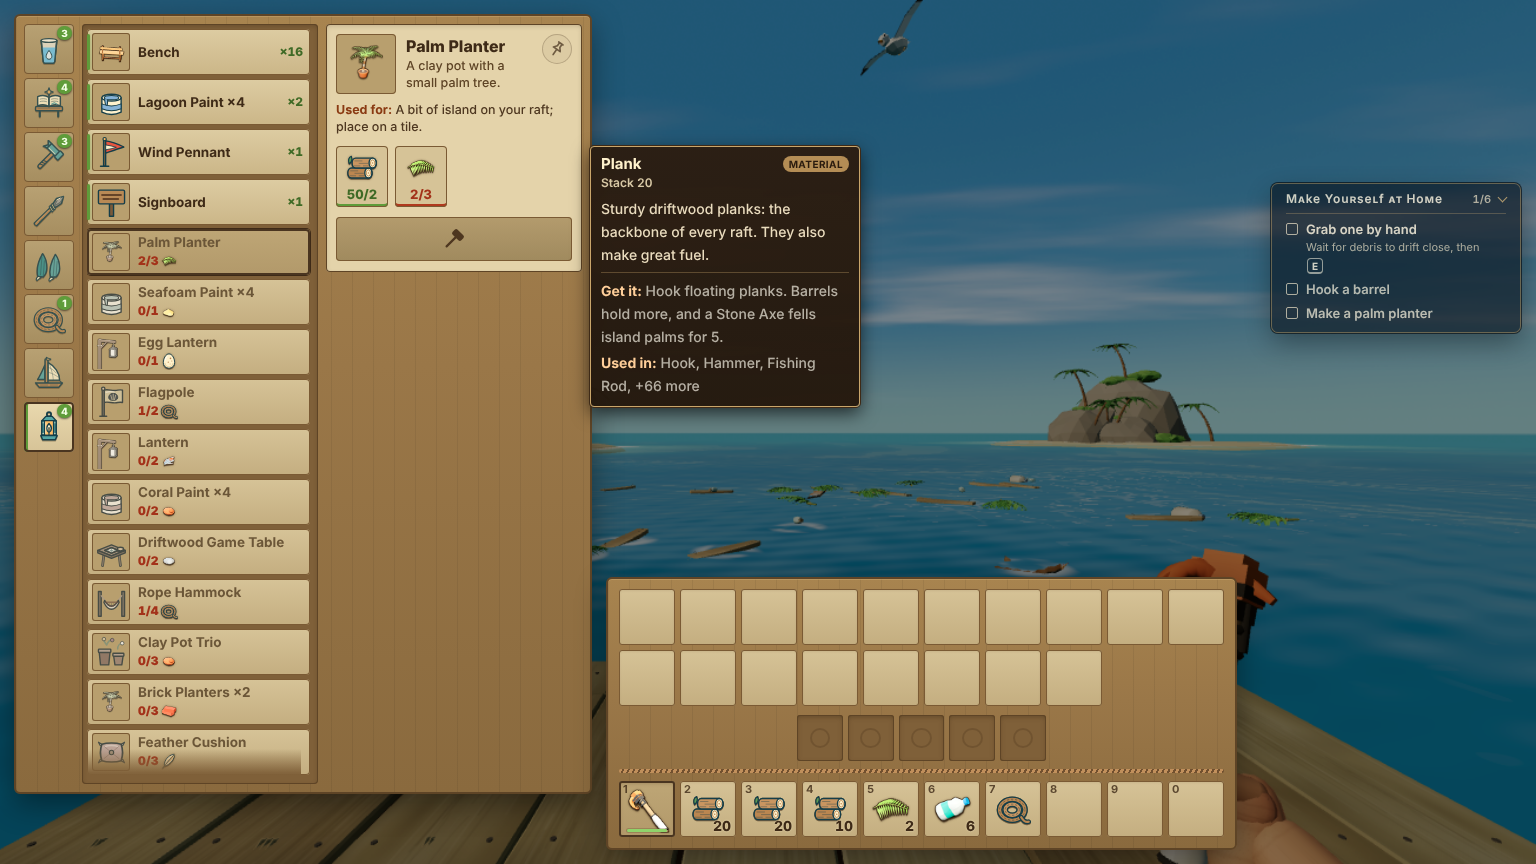
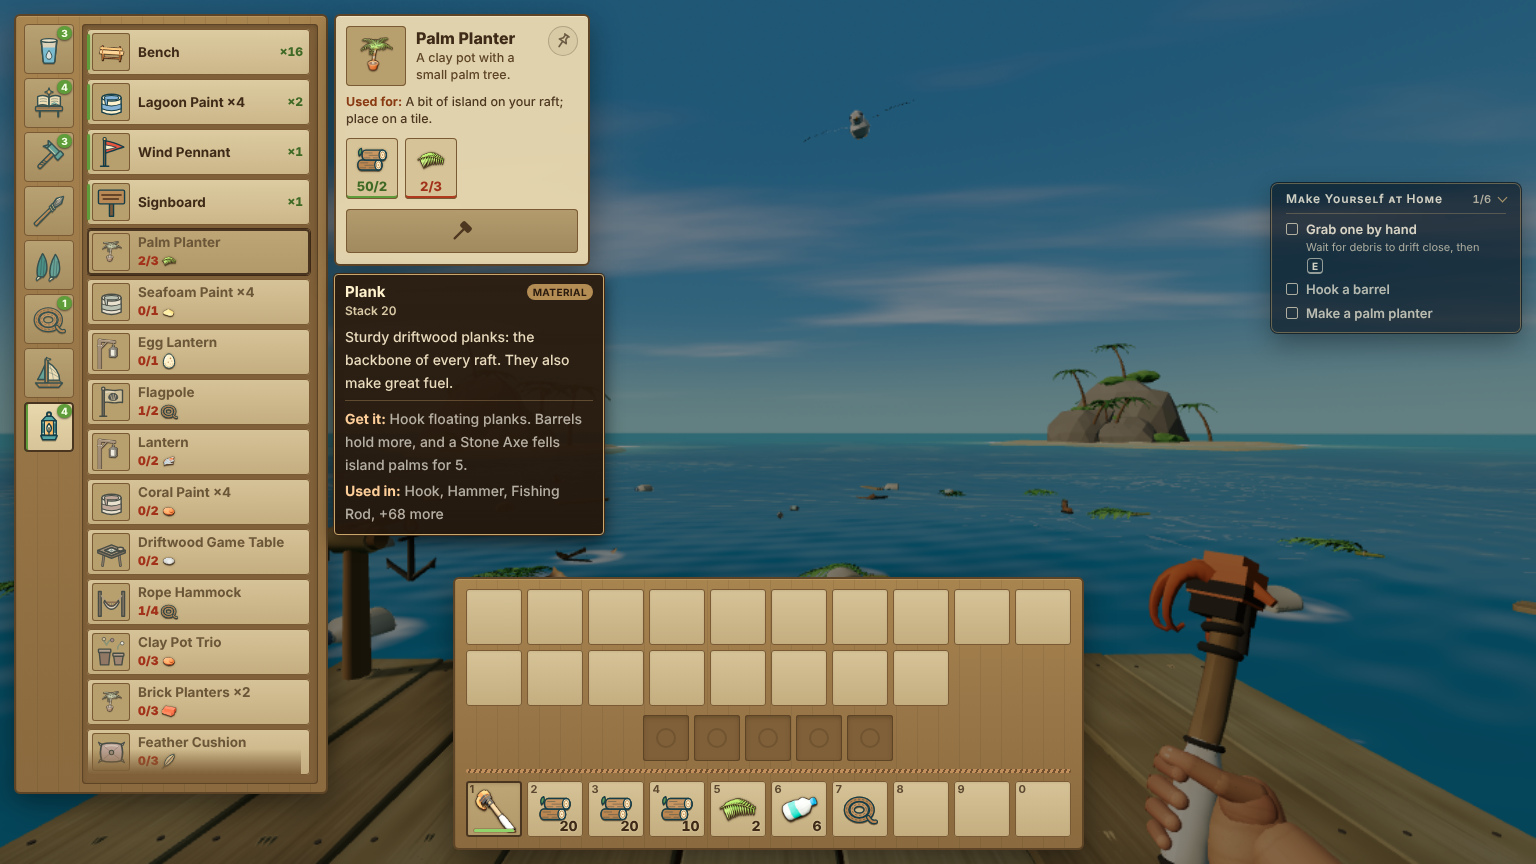
Crafting UI notes for review round 3; new chip-hover, equipment and short-tab screenshots

diff --git a/docs/loop/crafting-v2/UI-NOTES.md b/docs/loop/crafting-v2/UI-NOTES.md
@@ -45,23 +45,79 @@ The test matrix ran:
 
 ## Layout (Raft arrangement)
 
-- **Crafting** is anchored on the left edge and runs full height (up to 780px). It has three columns:
+- **Crafting** is anchored on the top-left edge and is as tall as its content (up to 780px, then the list scrolls), so a short tab leaves no empty block. It has:
   - a column of 8 icon tabs, in Raft's order: food and water, other, tools, weapons, equipment, resources, navigation, decorations. The tabs come from `CRAFT_TABS` and `craftTabOf` in items.js. Each name is the tab's `title` and its aria label.
-  - the recipe list.
-  - the detail pane: icon, name, description, pin, ingredient tiles showing have/need (red when short) with the + sub-craft, and the Craft button. Clicking a recipe selects it, and the pane stays open; hovering does not open it. The pane's height follows its ingredients.
-- **Backpack**: the panel sits on the bottom edge, centred on the screen when there is room, and otherwise right beside the crafting column. The detail pane has its own grid column, so it never covers the bag (checked at 1229x691, 1536x864 and 1920x1080). The panel holds, from top to bottom:
+  - the recipe list, as tall as its rows. On a short tab the panel is as tall as the tab column and the list box hugs its rows.
+  - the open recipe as its own card beside the list (`.sv-detail`, absolutely placed at the panel's right edge): icon, name, description, pin, ingredient tiles showing have/need (red when short) with the + sub-craft, and the Craft button. Clicking a recipe selects it, and the card stays open; hovering does not open it. The card's height follows its ingredients, and its `max-height` (`--dh`) ends it above the backpack, so it never covers the bag. There is no empty column under it.
+- **Backpack**: the panel sits on the bottom edge, centred on the screen unless that would put it over the tabs and list panel, then right beside that panel. Its slot size no longer grows to fill the width, so it centres at 1536x864 and 1920x1080; at 1229x691 the centred spot (x 299) would overlap the panel (right edge 298 plus the gap), so it sits beside it at x 308. The panel holds, from top to bottom:
   - the 18-slot grid
-  - Raft's **5 generic equipment slots**
+  - Raft's **5 equipment slots**
   - the hotbar row, which is the bottom-centre hotbar of the bag screen
-- **Equipment slots**: they show the diving gear you carry (`GEAR_IDS`; gear works while it is in the bag, one of each kind). They fill from the left and are read-only: the bag has no separate equipment storage.
-- **Right side**: kept clear of panels. The pickup feed docks out of flow beside the bag, or above it on windows narrower than 1500px, so feed rows never resize anything.
-- **Less text**: the "Crafting" and "Backpack" headings, the "Requires" label and the controls hint are visually hidden, but screen readers still get them. A refusal ("Can't place that there") shows briefly above the bag.
-- **Tooltips**: crafting tooltips anchor beside the whole crafting panel, so they never cover the recipe list or the open recipe.
-- **Sizing**: everything comes from the dialog size through container units, so layout is CSS only, with no per-frame reads or writes.
+- **Right side**: kept clear of panels. The pickup feed docks out of flow to the right of the bag (its width fits the space left there), or above the bag's right end on windows narrower than 1150px, so feed rows never resize anything.
+- **Less text**: the "Crafting" and "Backpack" headings, the "Requires" label and the controls hint are visually hidden, but screen readers still get them. A refusal ("Can't place that there", "Only gear goes there") shows briefly above the bag.
+- **Tooltips**: crafting tooltips (`craft-book.js craftTip`) stay in the crafting area and never cover the screen centre:
+  1. With a recipe open: right under its card, in the card's column (above the bag).
+  2. With none open: in that column, level with the hovered row.
+  3. No room under the card (1229x691): ingredient tiles put the card over the recipe list, rows put it over the card column. Any spot that would cover the screen's centre point is skipped.
+  Other tooltips (bag slots, equipment) still sit beside their element (`anchorTip`).
+- **Sizing**: everything comes from the dialog size through container units (`--pw` panel width, `--ch` tallest list, `--bh` bag height, `--dh` tallest recipe card), so layout is CSS only, with no per-frame reads or writes. Tooltip rects are read on show only.
   - Slot size: `clamp(36px, ..., 56px)`.
   - Below 1230px wide, a tighter crafting column.
-  - Below 1000px wide or 520px tall, one scrolling column.
-- **Unchanged behaviour**: + sub-craft, pin, hold-to-craft, drag and drop, click and right-click moves, keyboard (roving tabs, arrow keys over slots and recipes), research gating, the co-op guest bag and no text selection. A browser probe confirmed these: 8 tabs with labels, click-select persists after the pointer leaves, hold-to-craft, arrow keys over tabs, the held stack under the pointer at zoom 1.2, a move, `user-select:none`, equipment showing fins and goggles, and no page errors.
+  - Below 1000px wide or 520px tall, one scrolling column (the recipe card goes back into the flow under the list).
+- **Unchanged behaviour**: + sub-craft, pin, hold-to-craft, drag and drop, click and right-click moves, keyboard (roving tabs, arrow keys over slots and recipes), research gating, the co-op guest bag and no text selection.
+
+## Equipment slots
+
+The review found that the equipment slots were read-only mirrors: gear showed twice (grid and equipment row) and dragging into a slot did nothing.
+
+**Choice: the equipment row is a view over the bag, not new storage.** The Bag snapshot must be exactly 28 slots (`inventory-state.js` throws otherwise), co-op sends that snapshot and moves as `moveSlot` actions, and the save stores it. A real equipment store would change the save shape, the co-op protocol (an older peer would reject the snapshot) and diving-gear's "works while carried" rule, in files other agents are editing. So:
+
+- **What is worn**: the first 5 gear stacks (`GEAR_IDS`) in the backpack grid (bag index 10 and up), packed from the left (`craft-book.js equipView`). They show in the equipment row and not in the grid, so every item shows exactly once. Gear on the hotbar stays on the hotbar.
+- **The grid slot** that holds worn gear is drawn as a darker, empty "taken" slot (`data-worn`). It shows no icon and no tooltip (item-tooltips skips `data-worn`).
+- **Wear**: drag or click-place gear onto an equipment slot (`equipTarget`):
+  - From the hotbar, it moves to the first free backpack slot, so it shows in the row.
+  - Onto a worn slot, it swaps with that gear.
+  - Anything that is not gear is refused ("Only gear goes there").
+  - With a full backpack, the move is refused ("Backpack full").
+- **Unequip**: drag an equipment slot to the hotbar (a normal move or swap).
+- **Dropping on a "taken" slot** (`gridTarget`): the worn gear first moves to the first free backpack slot, then the stack lands where it was dropped. These are two ordinary `onMove` calls, so the guest bag predicts both and the host applies both in order. With no free slot it is a plain swap.
+- **Gear still counts as carried**: diving-gear-core's `gearMask(count)` reads `bag.count(kind)`, and the items never leave the bag, so swim, oxygen and fog bonuses are unchanged.
+- **Compatibility**: old saves (no gear, or gear anywhere) load unchanged, because the row is computed from the slots. No new save fields and no protocol change.
+- **The equipment slots are real `.sv-slot` buttons** (`data-equip`, plus `data-slot` = the bag index while filled). Click-pick, right-click, drag and drop, the held stack, deny shake and the item-tooltips card (with durability) all work on them.
+
+## Review round 3: overlapping live checks
+
+**Problem.** In dist/live.js, `check()` awaited `fetchManifest()` before `swap()` set `state.updating`. Overlapping checks could therefore both pass the busy test and both mount a new engine: the poll, a `visibilitychange` `schedule(0)` or a manual `raftLive.check()`. The first new engine was never disposed, so its item-tooltips sheet and listeners leaked, and two or three cards could show at once.
+
+**Fix:**
+- live.js keeps one in-flight promise: `check()` returns the running check to any overlapping caller, so at most one check and one swap run at a time.
+- `boot()` sets `state.booting`, and a check during boot answers `busy`.
+- item-tooltips.js keeps its live instance on `window.__littleRaftItemTooltips`, like survival-ui's `INST_KEY`. Installing a new instance disposes the previous one, so even a missed dispose leaves one sheet and one card. The old engine's late `dispose()` removes only its own sheet.
+
+**Test.** tools/repro_craft_flicker.mjs now starts LIVE_SWAP with two overlapping `raftLive.check()` calls. Each case counts `style.item-tooltips-style` and `.it-tip` elements. Any count above one is reported as `duplicate-tooltips`, which makes the case a FLICKER. tests/crafting-v3.test.mjs covers the guard and the registry with a fake DOM.
+
+**Repro numbers** (VIEWPORTS=1536x864@1,1920x1080@1,1229x691@1, TARGETS=chip,plus,row,chip+feed, plus UI_SCALE=1.2 at 1536x864):
+
+| Run | Before (old live.js and item-tooltips.js) | After |
+|---|---|---|
+| LIVE_SWAP, 1536x864, 4 targets | FLICKER `duplicate-tooltips`: 2 styles and 2 cards each | STABLE: 1 style and 1 card; panel x 14; 0.02 toggles/frame |
+| LIVE_SWAP, 1920x1080, chip, plus and row | FLICKER `duplicate-tooltips`: 2/2 each | STABLE: 1/1; panel x 17; 0.02 |
+| LIVE_SWAP, 1920x1080 chip+feed and 1229x691 (all 4) | not measured: the run hit its 900 s limit | STABLE: 1/1; panel x 17 or 10; 0.02 |
+| No swap, all 3 viewports, 12 cases | not rerun | STABLE: 1/1, 0.02 toggles/frame |
+| UI_SCALE=1.2, with and without swap, 8 cases | not rerun | STABLE: 1/1, panel x 17, 0.02 |
+
+- **Before:** every swap case that finished (7 of 7) left two sheets and two cards.
+- **After:** all 32 cases are STABLE (exit 0), and both overlapping checks return the same `updated` result.
+
+Measured placements after the change (viewport px, from the repro):
+
+| Viewport | Crafting panel | Recipe card | Backpack | Chip card |
+|---|---|---|---|---|
+| 1536x864 | x 14, w 314 | x 334, h 252 | x 453..1084 (centred on 768) | x 334..604, under the recipe card |
+| 1920x1080 (zoom 1.2) | x 17, w 377 | x 401, h 301 | x 581..1338 (centred on 960) | x 401..725 |
+| 1229x691 | x 10, w 288 | x 304, h 235 | x 308 (beside the panel: centred would be x 299) | over the list (x 28..298); row cards under the recipe card (y 255..397, bag top 408) |
+
+The screen centre stays clear in every case.
 
 ## Data hooks
 
@@ -71,8 +127,9 @@ The test matrix ran:
 
 ## Screenshots
 
-- docs/loop/crafting-v2/crafting-1536x864-chip-hover.png
-- docs/loop/crafting-v2/crafting-1920x1080-chip-hover.png (zoom 1.2: the card sits beside the panel, on screen)
-- docs/loop/crafting-v2/crafting-1229x691-chip-hover.png (the detail pane is clear of the bag)
-- docs/loop/crafting-v2/crafting-1920x1080-equipment.png (fins and goggles in the equipment slots)
-- docs/loop/crafting-v2/flicker-before-1536x864-swap.png and flicker-after-1536x864-swap.png (pointer resting on a chip after a live swap)
+- docs/loop/crafting-v2/crafting-1536x864-chip-hover.png (a chip hovered: the card sits under the recipe card, the backpack is centred)
+- docs/loop/crafting-v2/crafting-1920x1080-chip-hover.png (zoom 1.2: the same arrangement, the backpack centred)
+- docs/loop/crafting-v2/crafting-1229x691-chip-hover.png (the backpack beside the panel, the chip card over the recipe list)
+- docs/loop/crafting-v2/crafting-1920x1080-equipment.png (goggles worn in the equipment row, its grid slot shown as taken, fins moved to the hotbar)
+- docs/loop/crafting-v2/crafting-1920x1080-short-tab.png (a short tab: the panel and list are as tall as their content)
+- docs/loop/crafting-v2/flicker-before-1536x864-swap.png and flicker-after-1536x864-swap.png (pointer resting on a chip after a live swap; from round 2)
